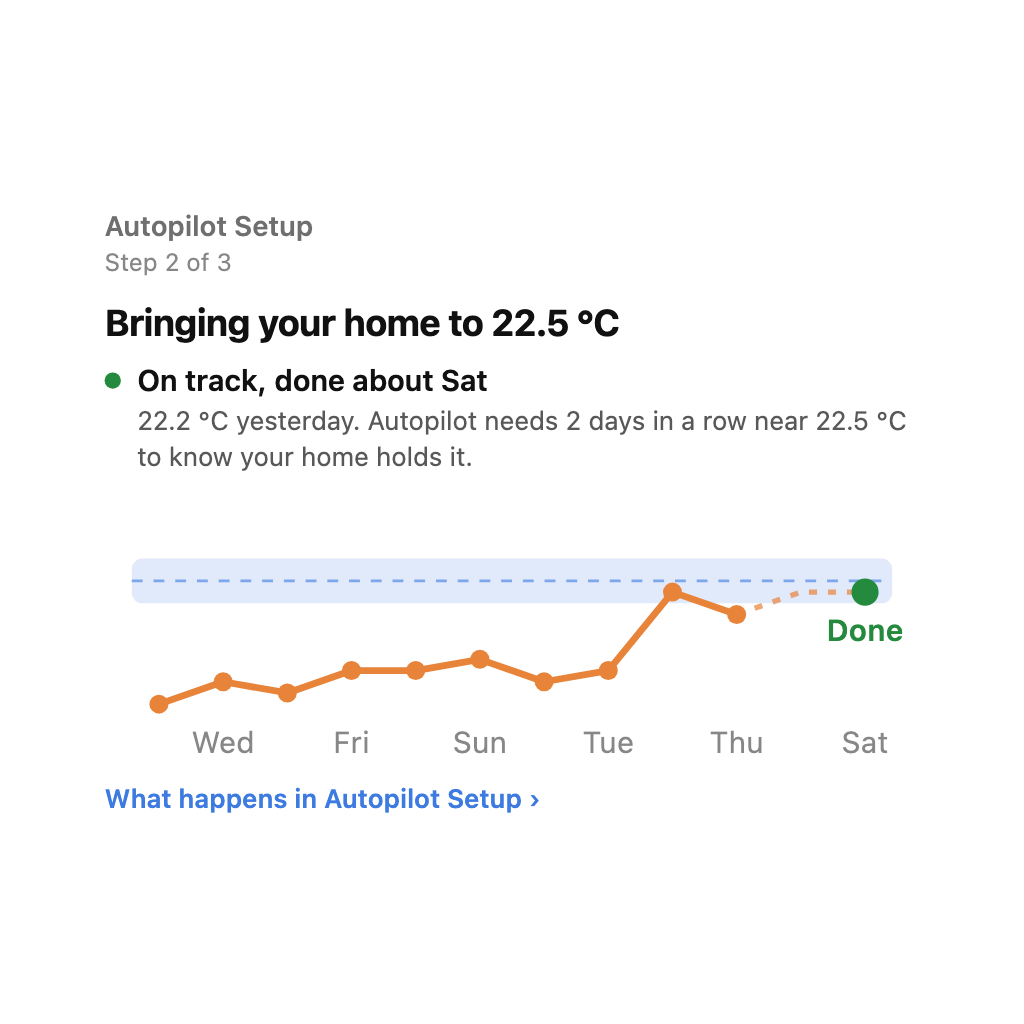
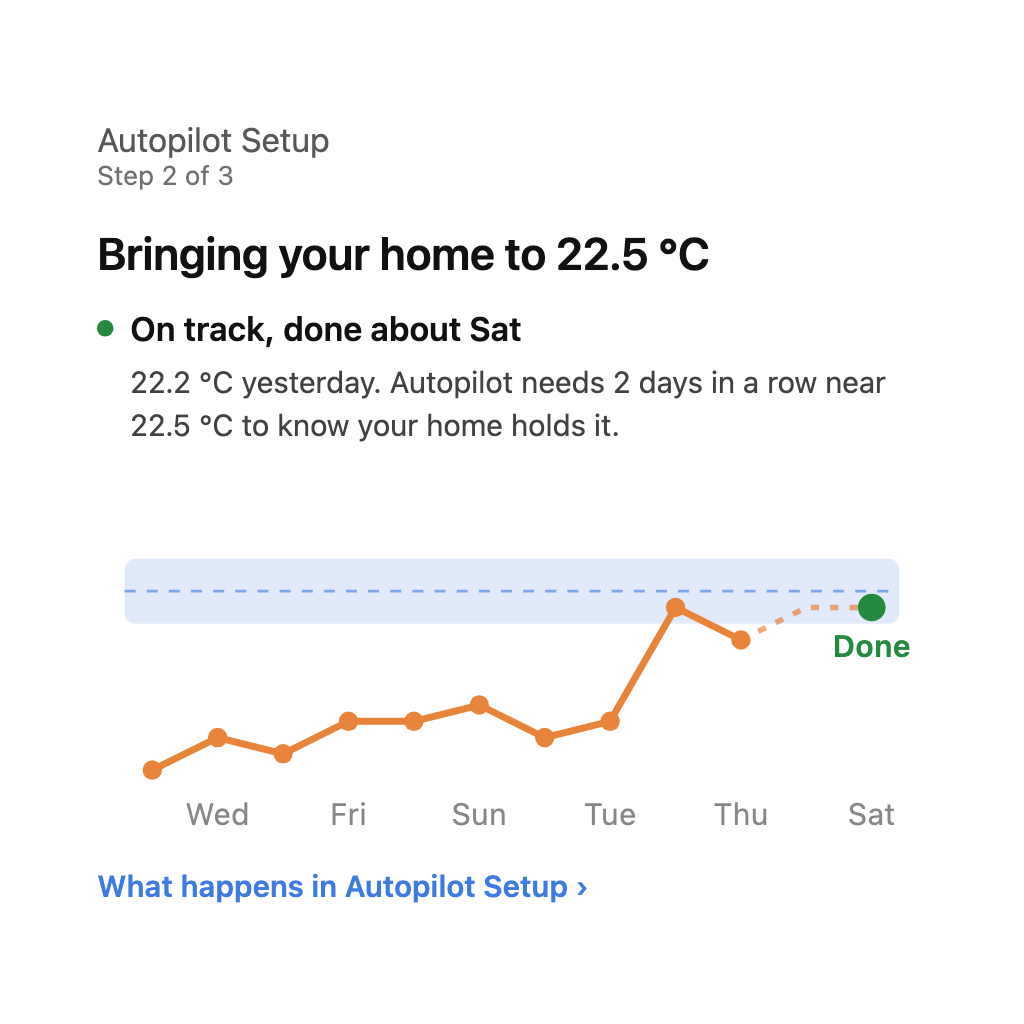
Autopilot Setup card: the other cards' type sizes, with room to breathe
Title, headline (1.35 em semibold, balanced) and padding as the hot water,
Heating performance and Autopilot cards; the why text a step below at 0.9
em. More space between the headline, the status and the graph, and a taller
graph (120 high) so it carries the card.

diff --git a/widgets/getting_started/public/index.html b/widgets/getting_started/public/index.html
@@ -6,25 +6,25 @@
          what is happening, one says whether it is going as expected and when it is done, and the
          graph walks the days to the target and on to Done. One link to the help section. The
          line draws when the card first shows or its content changes, never on a plain refresh. */
-      .gs { padding: var(--homey-su-3, 12px) var(--homey-su-4, 16px); }
-      /* Type: four sizes. Header 0.85/0.75 em, headline 1.125 em, status 0.9 em, body and
-         links 0.8 em. Space on a 4 px step: 2 inside a pair, 8 inside the story, 12-16 between
-         blocks. Headline, status and why read as one group; the graph and help link stand apart. */
-      .gs-title { font-size: 0.85em; opacity: 0.6; font-weight: 600; white-space: nowrap; overflow: hidden; text-overflow: ellipsis; }
-      .gs-step { font-size: 0.75em; opacity: 0.5; margin-top: 2px; }
-      .gs-big { margin-top: 12px; font-size: 1.125em; font-weight: 700; letter-spacing: -0.01em; line-height: 1.2; }
-      .gs-status { display: flex; align-items: center; gap: 8px; margin-top: 8px; font-size: 0.9em; font-weight: 600; line-height: 1.3; }
+      .gs { padding: var(--homey-su-2, 8px) var(--homey-su-3, 12px); }
+      /* Type as the other Autopilot cards (hotwater_tank, energy, autopilot): the title at body
+         size, faded; the headline 1.35 em semibold, balanced over its lines; the reason at body
+         size. The step and the why sit a step below, as each card's secondary line does. */
+      .gs-title { opacity: 0.7; white-space: nowrap; overflow: hidden; text-overflow: ellipsis; }
+      .gs-step { font-size: 0.8em; opacity: 0.6; margin-top: 1px; }
+      .gs-big { text-wrap: balance; margin-top: 18px; font-size: 1.35em; font-weight: 600; line-height: 1.2; }
+      .gs-status { display: flex; align-items: center; gap: 8px; margin-top: 12px; font-weight: 600; line-height: 1.3; }
       .gs-status i { position: relative; width: 8px; height: 8px; border-radius: 50%; flex: none; background: currentColor; opacity: 0.4; }
       /* Muted by colour, not opacity: the rise animation ends at opacity 1 and would undo it, and
          an inline link keeps its full colour. */
-      .gs-why { margin: 2px 0 0 16px; font-size: 0.8em; color: color-mix(in srgb, currentColor 70%, transparent); line-height: 1.4; }
+      .gs-why { margin: 4px 0 0 16px; font-size: 0.9em; color: color-mix(in srgb, currentColor 80%, transparent); line-height: 1.5; max-width: 32em; }
       /* Older web views (before iOS 16.2): muted by opacity instead. */
-      @supports not (color: color-mix(in srgb, red 50%, transparent)) { .gs-why { opacity: 0.75; } }
+      @supports not (color: color-mix(in srgb, red 50%, transparent)) { .gs-why { opacity: 0.85; } }
       .gs-status.good i { background: var(--gs-good); opacity: 1; }
       .gs-status.warn i { background: var(--gs-warn); opacity: 1; }
-      .gs-help { margin-top: 12px; font-size: 0.8em; }
+      .gs-help { margin-top: 18px; font-size: 0.9em; }
       a.gs-link { color: var(--gs-target); font-weight: 600; text-decoration: none; cursor: pointer; }
-      .gs-chart { display: block; width: 100%; margin-top: 16px; overflow: visible; }
+      .gs-chart { display: block; width: 100%; margin-top: 24px; overflow: visible; }
       .gs-empty { opacity: 0.8; margin: 12px 0; }
       :root { --gs-good: #248a3d; --gs-warn: #b4500c; --gs-line: #e8833a; --gs-target: #3d7be0; }
       :root[data-theme="dark"] { --gs-good: #30d158; --gs-warn: #ff9f0a; --gs-line: #f0954f; --gs-target: #6ea0ff; }
@@ -111,7 +111,7 @@
       // in the band, marked Done. At least a week wide, so the first days don't fill the card.
       function chart(c) {
         var days = c.days, proj = c.projection ? c.projection.days : [], all = days.concat(proj), target = c.target;
-        var W = 300, H = 92, n = Math.max(7, all.length);
+        var W = 300, H = 120, n = Math.max(7, all.length);
         var values = all.map(function (d) { return d.mean; }).concat([target - 0.3, target + 0.3]);
         var lo = Math.min.apply(null, values) - 0.1, hi = Math.max.apply(null, values) + 0.1;
         var x = function (k) { return 20 + k * (W - 40) / (n - 1); };
